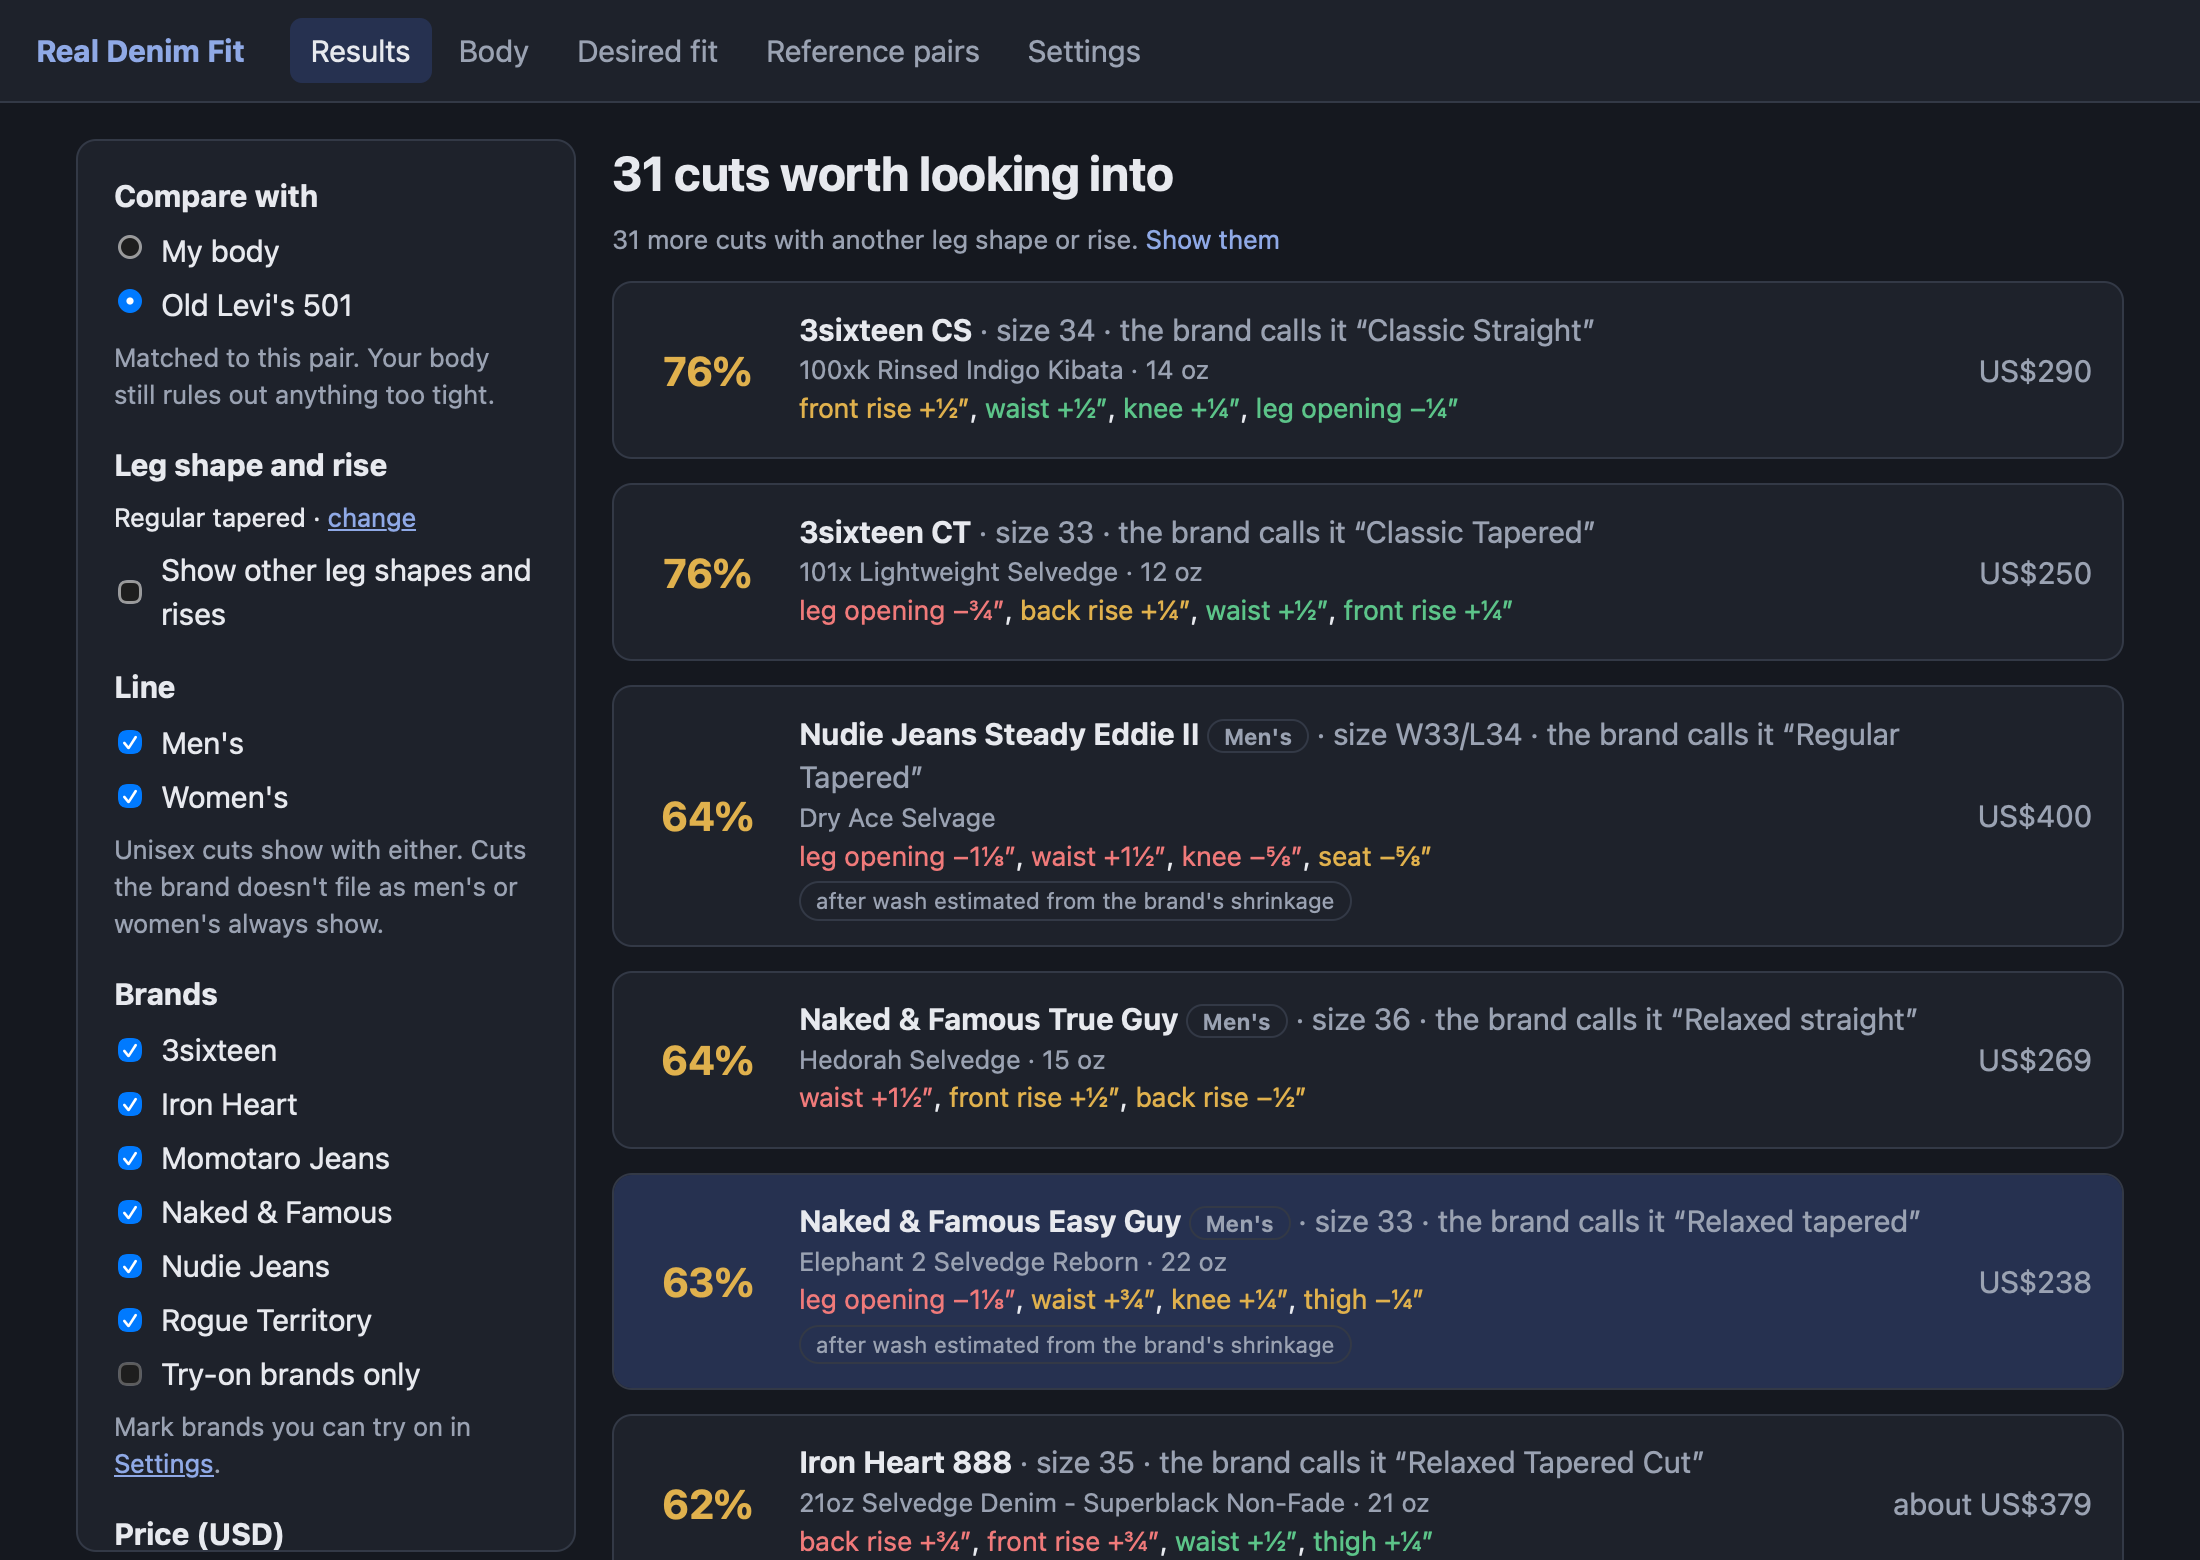
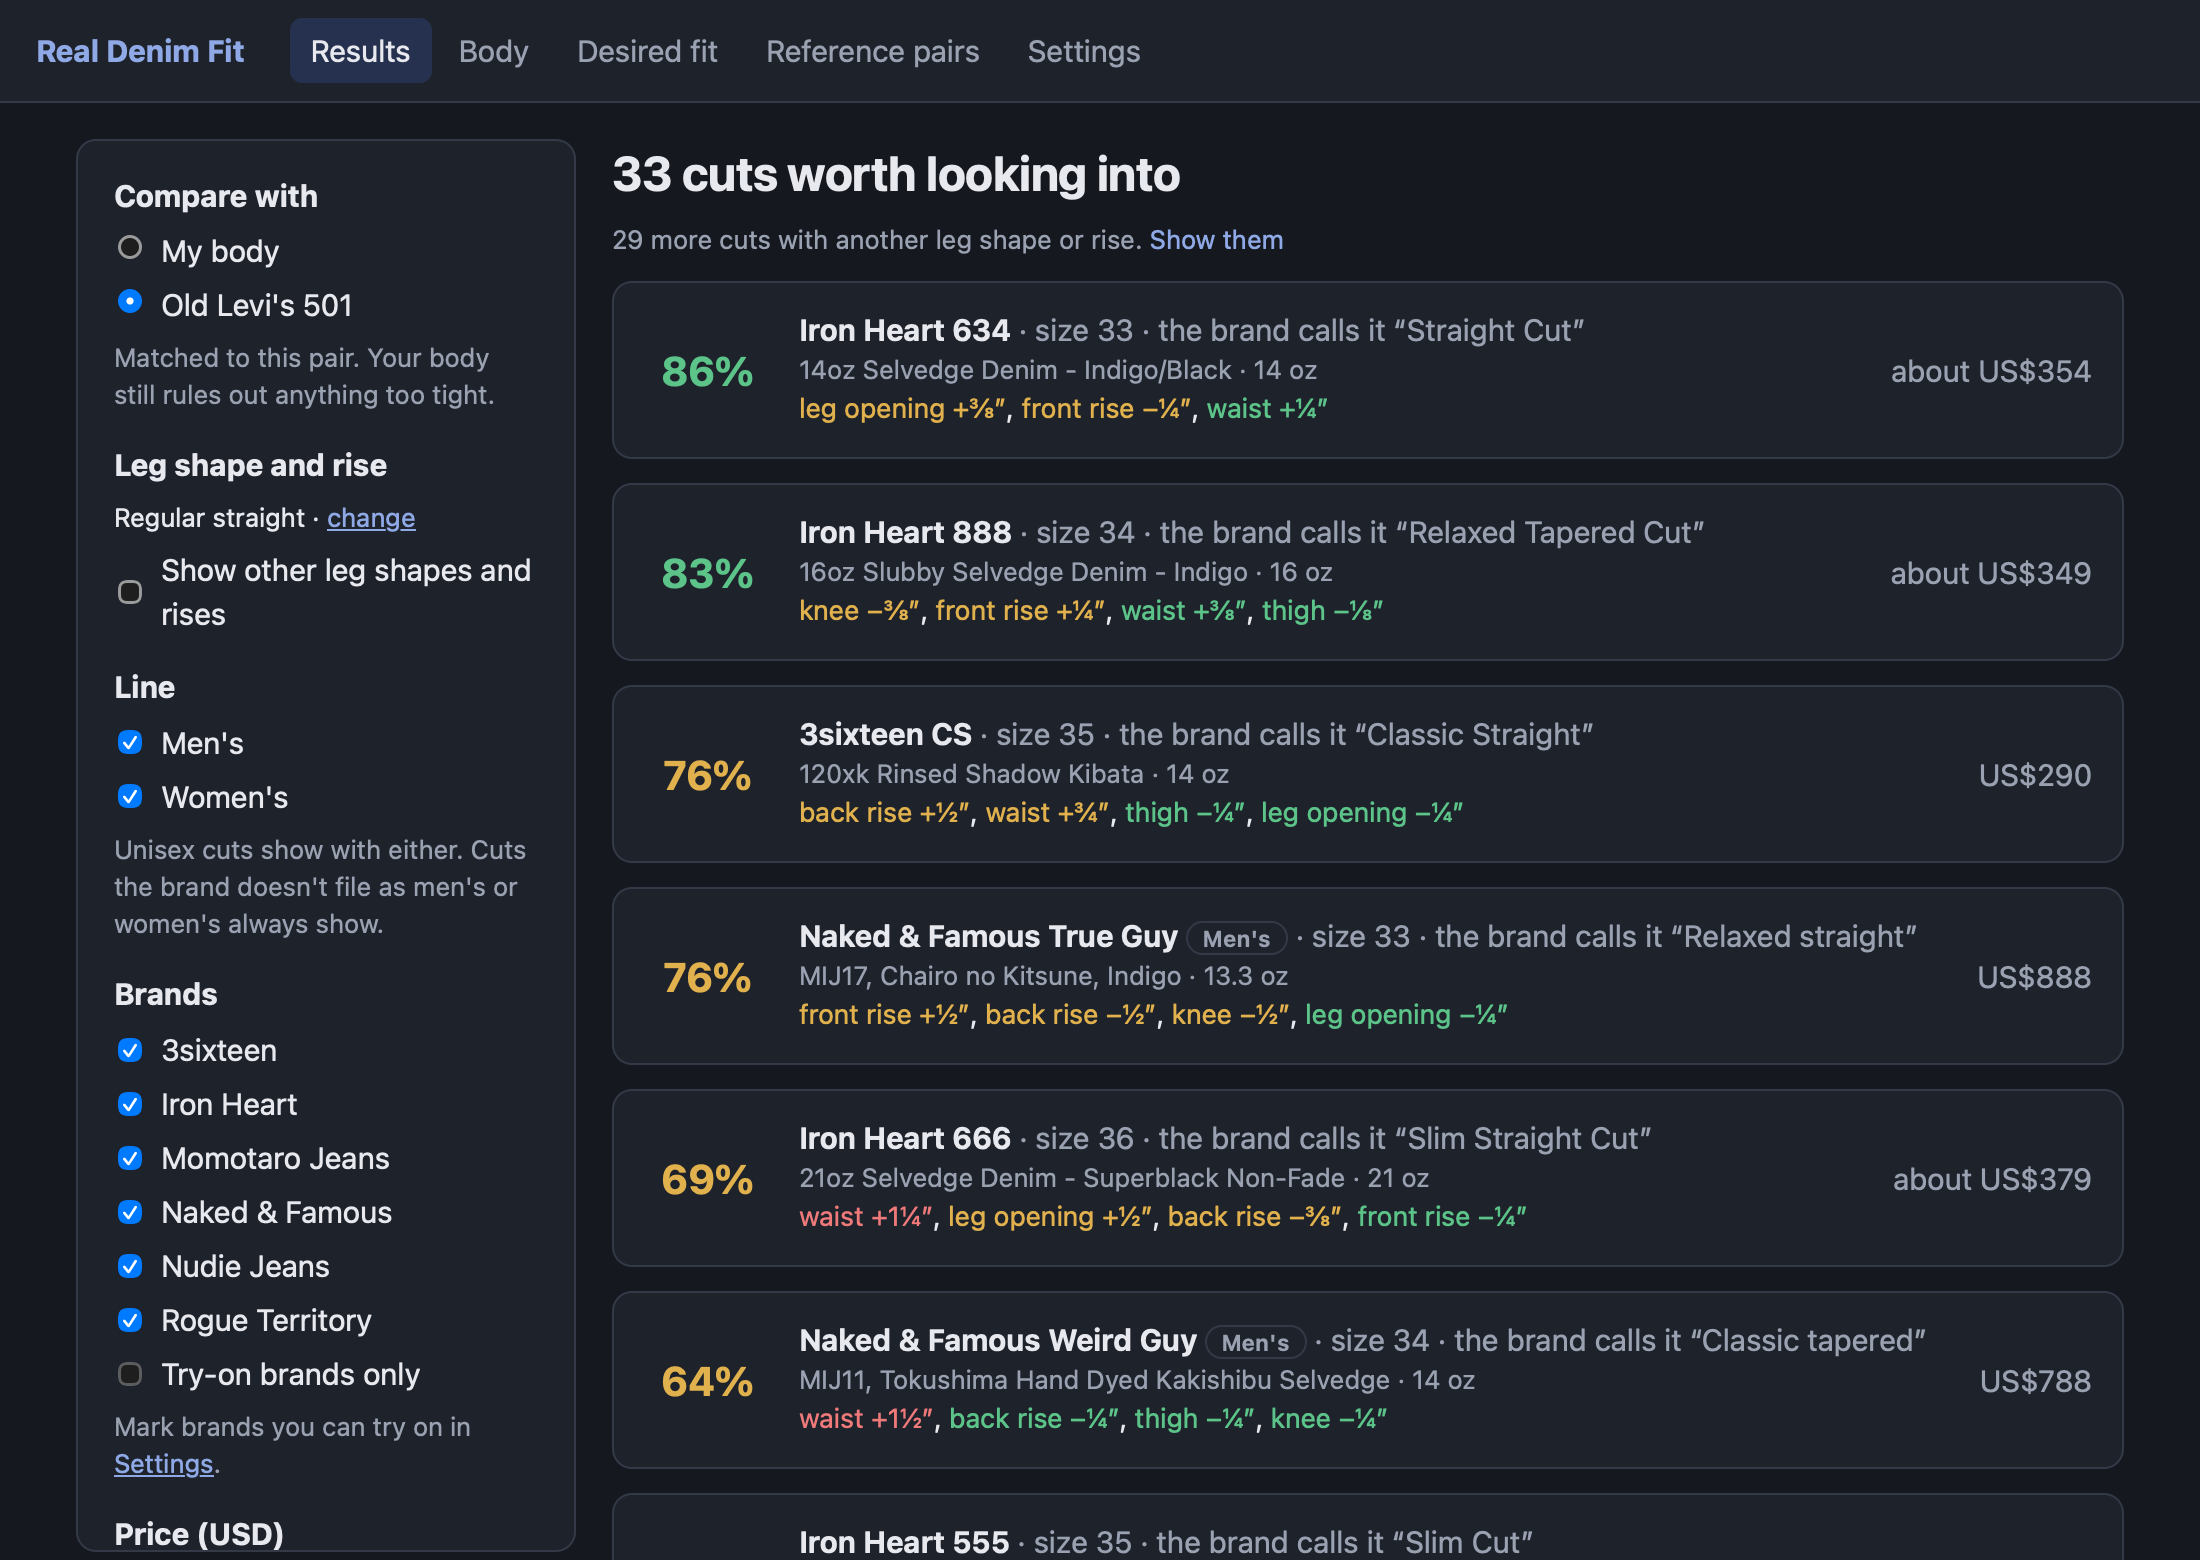
Show a straight fit in the screenshots, with no hovered rows
The example 501 has a straight leg, so the desired fit is now regular
straight and the matches line up with it (top closeness 86%). The page
ignores the pointer while the script draws, so a row under it no longer
shows as hovered.

diff --git a/docs/screenshots/take-screenshots.swift b/docs/screenshots/take-screenshots.swift
@@ -17,7 +17,8 @@
 //
 // The window is invisible (1% opaque, and clicks go through it) but on screen and in front,
 // because WebKit draws checkboxes and radio buttons faded in a window that's off screen or in
-// the background. So it takes the keyboard focus for the half minute it runs.
+// the background. So it takes the keyboard focus for the half minute it runs. The page ignores
+// the pointer, so nothing shows as hovered wherever it is.
 //
 // The app has no theme switch of its own: dark mode comes only from prefers-color-scheme in
 // ui/styles.css, so each picture is taken once with the view's appearance set to Aqua (light)
@@ -158,7 +159,11 @@ final class Shooter: NSObject, WKNavigationDelegate {
     }
 
     func webView(_ webView: WKWebView, didFinish navigation: WKNavigation!) {
-        after(2.0, next)
+        // The window ignores clicks, but WebKit still follows the pointer, so a row under
+        // wherever it happens to be would show as hovered. Nothing on the page reacts to it.
+        view.evaluateJavaScript("document.documentElement.style.pointerEvents = 'none'") { _, _ in
+            self.after(2.0, self.next)
+        }
     }
 
     func after(_ seconds: TimeInterval, _ fn: @escaping () -> Void) {

diff --git a/README.md b/README.md
@@ -53,7 +53,7 @@ much it counts. Anything too tight for you is left out, however little it counts
 
 <picture>
   <source media="(prefers-color-scheme: dark)" srcset="docs/screenshots/fit-dark.png">
-  <img alt="The desired fit, regular tapered: room, leg shape and rise as choices, and five importance dots for each measurement" src="docs/screenshots/fit-light.png">
+  <img alt="The desired fit, regular straight: room, leg shape and rise as choices, and five importance dots for each measurement" src="docs/screenshots/fit-light.png">
 </picture>
 
 ## Judged after the first wash
@@ -67,7 +67,7 @@ number to the page it came from, with the date it was seen.
 
 <picture>
   <source media="(prefers-color-scheme: dark)" srcset="docs/screenshots/product-dark.png">
-  <img alt="A product, Nudie Jeans Steady Eddie II: its fabric and shrinkage, its as-sold and after-wash measurements side by side, and where each number comes from" src="docs/screenshots/product-light.png">
+  <img alt="A product, Nudie Jeans Rad Rufus: its fabric and shrinkage, its as-sold and after-wash measurements side by side, and where each number comes from" src="docs/screenshots/product-light.png">
 </picture>
 
 ## Know a pair that fits? Add it
